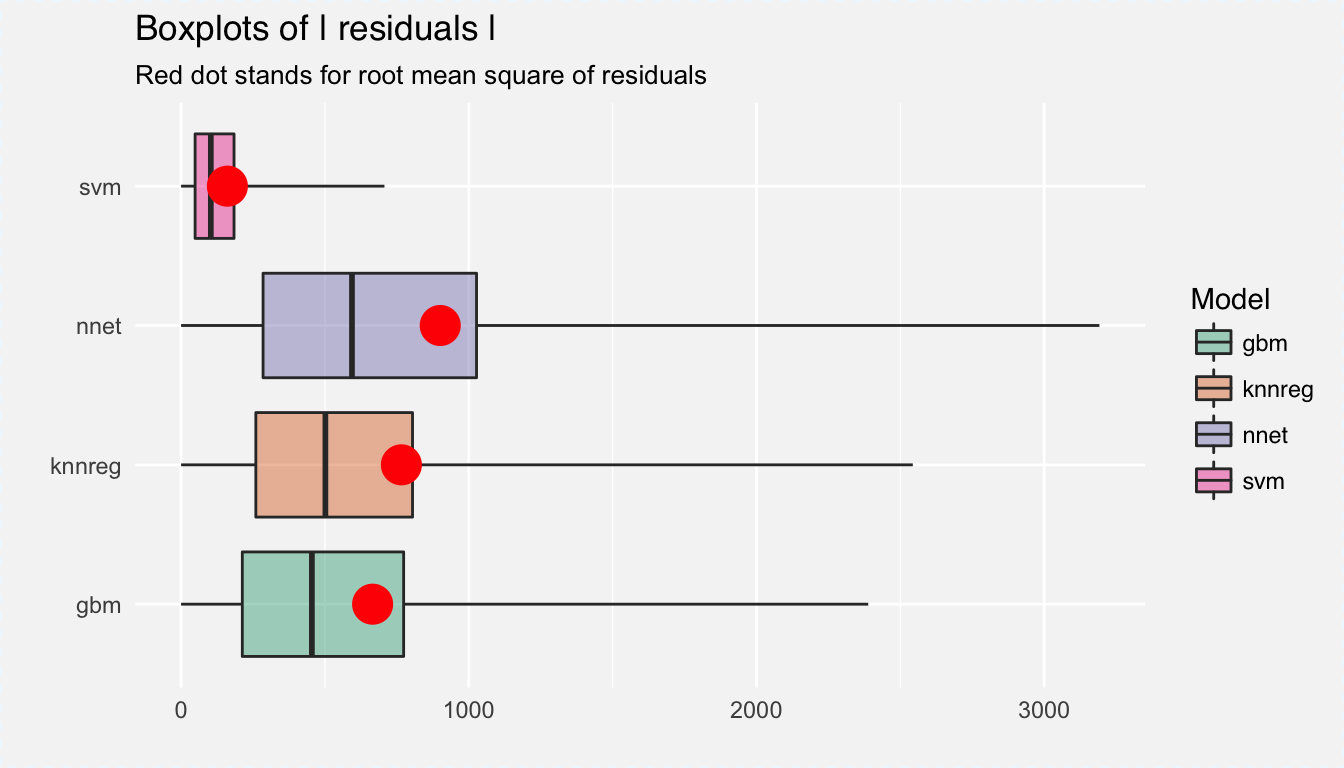
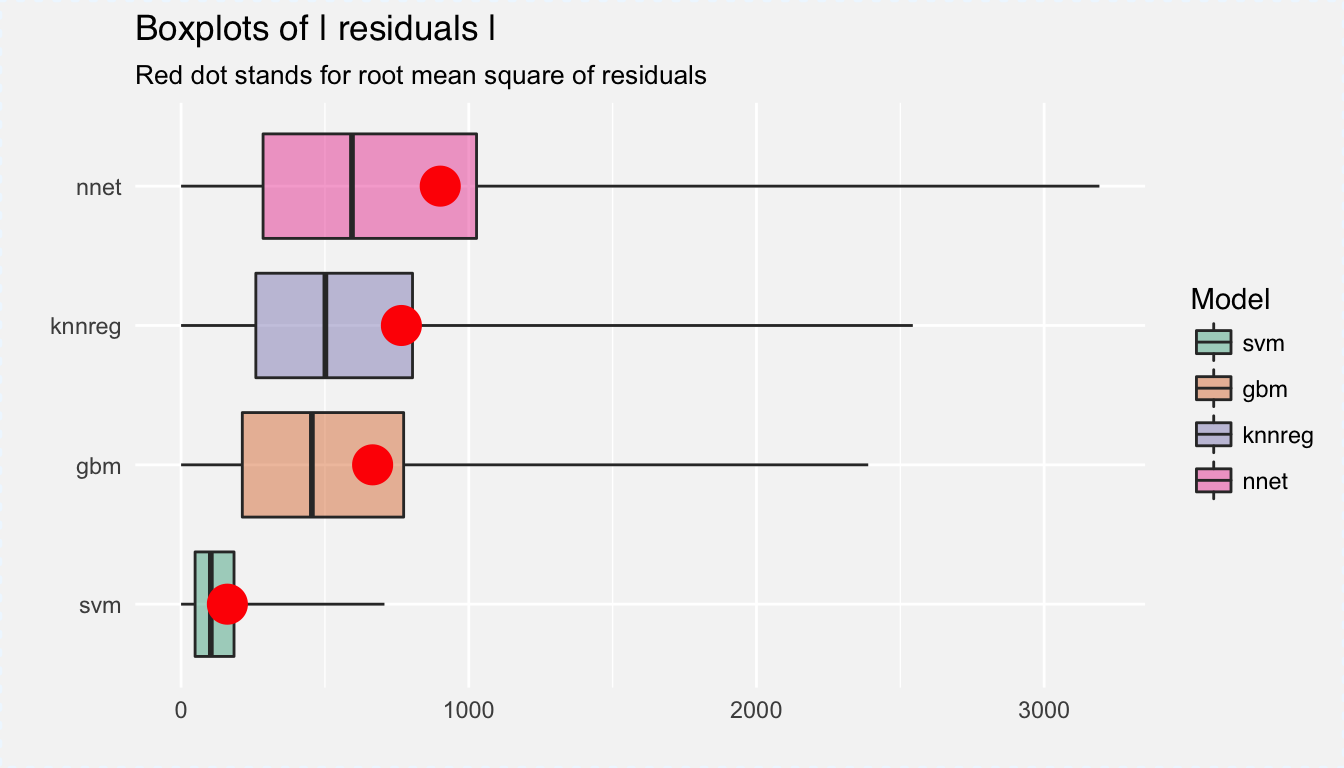
+ updates - sorted models in model_performance explainer

diff --git a/docs/index.html b/docs/index.html
@@ -17,7 +17,7 @@
 
 <meta name="author" content="Przemysław Biecek" />
 
-<meta name="date" content="2018-04-18" />
+<meta name="date" content="2018-04-19" />
 
 <script type="text/x-mathjax-config">
 MathJax.Hub.Config({
@@ -159,7 +159,7 @@ code span.wa { color: #60a0b0; font-weight: bold; font-style: italic; } /* Warni
 <div id="header">
 <h1 class="title">DALEX: Descriptive mAchine Learning EXplanations</h1>
 <h4 class="author"><em>Przemysław Biecek</em></h4>
-<h4 class="date"><em>2018-04-18</em></h4>
+<h4 class="date"><em>2018-04-19</em></h4>
 </div>
 <div id="introduction" class="section level1">
 <h1><span class="header-section-number">Chapter 1</span> Introduction</h1>

diff --git a/docs/1-1-motivation.html b/docs/1-1-motivation.html
@@ -17,7 +17,7 @@
 
 <meta name="author" content="Przemysław Biecek" />
 
-<meta name="date" content="2018-04-18" />
+<meta name="date" content="2018-04-19" />
 
 <script type="text/x-mathjax-config">
 MathJax.Hub.Config({

diff --git a/docs/1-2-trivia.html b/docs/1-2-trivia.html
@@ -17,7 +17,7 @@
 
 <meta name="author" content="Przemysław Biecek" />
 
-<meta name="date" content="2018-04-18" />
+<meta name="date" content="2018-04-19" />
 
 <script type="text/x-mathjax-config">
 MathJax.Hub.Config({

diff --git a/docs/2-1-explainFunction.html b/docs/2-1-explainFunction.html
@@ -17,7 +17,7 @@
 
 <meta name="author" content="Przemysław Biecek" />
 
-<meta name="date" content="2018-04-18" />
+<meta name="date" content="2018-04-19" />
 
 <script type="text/x-mathjax-config">
 MathJax.Hub.Config({

diff --git a/docs/2-2-useCaseApartmetns.html b/docs/2-2-useCaseApartmetns.html
@@ -17,7 +17,7 @@
 
 <meta name="author" content="Przemysław Biecek" />
 
-<meta name="date" content="2018-04-18" />
+<meta name="date" content="2018-04-19" />
 
 <script type="text/x-mathjax-config">
 MathJax.Hub.Config({

diff --git a/docs/2-architecture.html b/docs/2-architecture.html
@@ -17,7 +17,7 @@
 
 <meta name="author" content="Przemysław Biecek" />
 
-<meta name="date" content="2018-04-18" />
+<meta name="date" content="2018-04-19" />
 
 <script type="text/x-mathjax-config">
 MathJax.Hub.Config({

diff --git a/docs/3-1-modelPerformance.html b/docs/3-1-modelPerformance.html
@@ -17,7 +17,7 @@
 
 <meta name="author" content="Przemysław Biecek" />
 
-<meta name="date" content="2018-04-18" />
+<meta name="date" content="2018-04-19" />
 
 <script type="text/x-mathjax-config">
 MathJax.Hub.Config({

diff --git a/docs/3-2-featureImportance.html b/docs/3-2-featureImportance.html
@@ -17,7 +17,7 @@
 
 <meta name="author" content="Przemysław Biecek" />
 
-<meta name="date" content="2018-04-18" />
+<meta name="date" content="2018-04-19" />
 
 <script type="text/x-mathjax-config">
 MathJax.Hub.Config({

diff --git a/docs/3-3-variableResponse.html b/docs/3-3-variableResponse.html
@@ -17,7 +17,7 @@
 
 <meta name="author" content="Przemysław Biecek" />
 
-<meta name="date" content="2018-04-18" />
+<meta name="date" content="2018-04-19" />
 
 <script type="text/x-mathjax-config">
 MathJax.Hub.Config({

diff --git a/docs/3-modelUnderstanding.html b/docs/3-modelUnderstanding.html
@@ -17,7 +17,7 @@
 
 <meta name="author" content="Przemysław Biecek" />
 
-<meta name="date" content="2018-04-18" />
+<meta name="date" content="2018-04-19" />
 
 <script type="text/x-mathjax-config">
 MathJax.Hub.Config({

diff --git a/docs/4-1-outlierDetection.html b/docs/4-1-outlierDetection.html
@@ -17,7 +17,7 @@
 
 <meta name="author" content="Przemysław Biecek" />
 
-<meta name="date" content="2018-04-18" />
+<meta name="date" content="2018-04-19" />
 
 <script type="text/x-mathjax-config">
 MathJax.Hub.Config({

diff --git a/docs/4-2-predictionBreakdown.html b/docs/4-2-predictionBreakdown.html
@@ -17,7 +17,7 @@
 
 <meta name="author" content="Przemysław Biecek" />
 
-<meta name="date" content="2018-04-18" />
+<meta name="date" content="2018-04-19" />
 
 <script type="text/x-mathjax-config">
 MathJax.Hub.Config({
